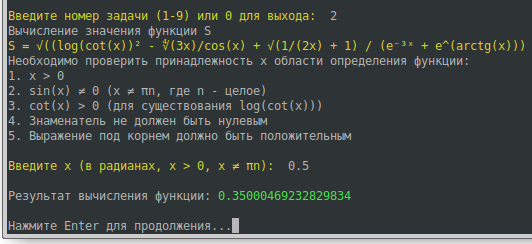
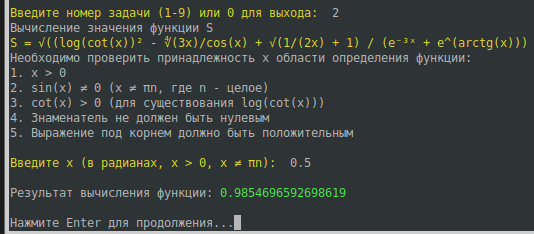
correct task 2

Changed region(s): [[0.0, 0.0, 1.0, 1.0], [0.5414, 0.6581, 0.6015, 0.7179]]

diff --git a/main.py b/main.py
@@ -133,7 +133,7 @@ def _ex2(x: float) -> float:
         if main_sqrt_expression < 0:
             raise ValueError("выражение под главным корнем должно быть неотрицательным")
         
-        return math.sqrt(main_sqrt_expression / denominator)
+        return math.sqrt(main_sqrt_expression) / denominator
     
     except ValueError as e:
         raise ValueError(f"Ошибка при вычислении: {e}")
